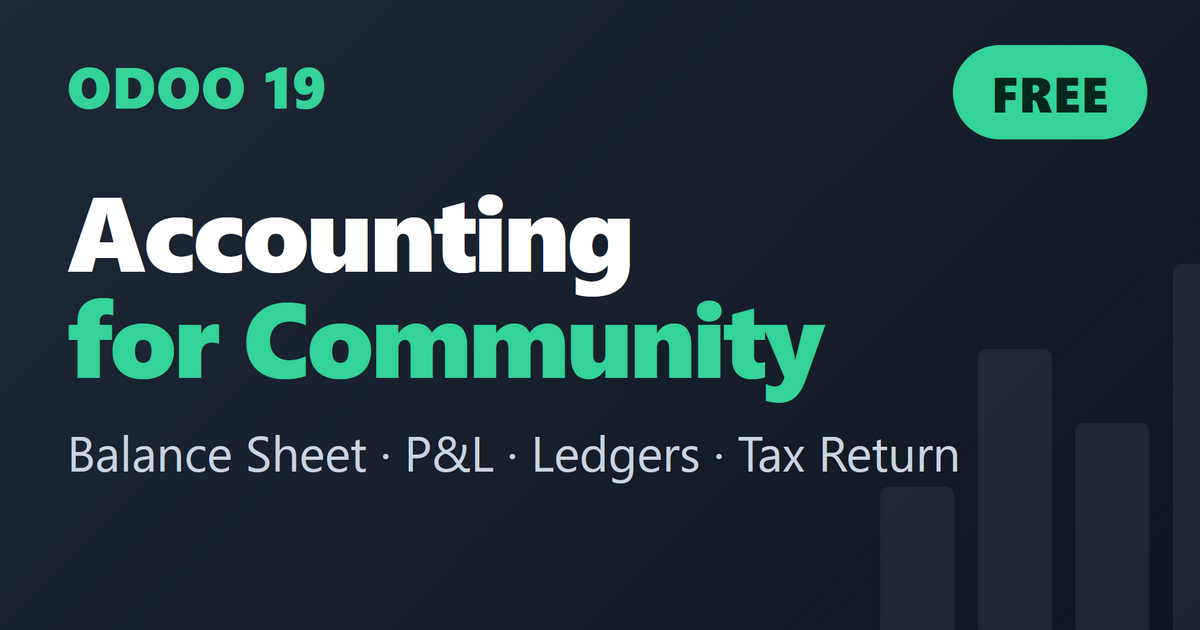
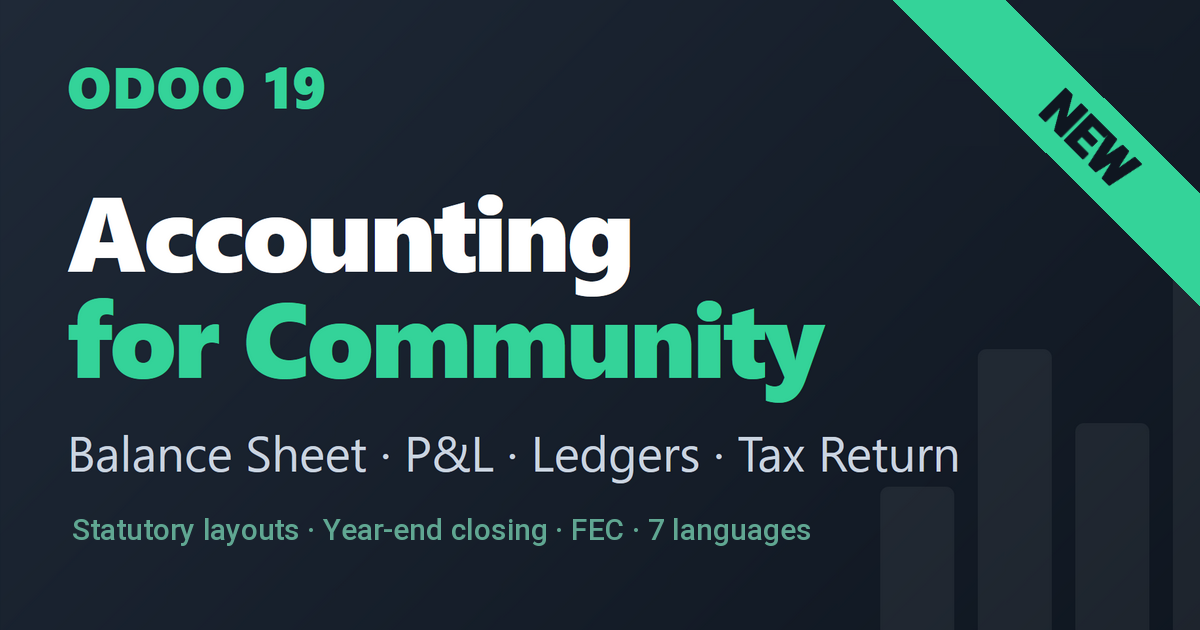
Balance sheets: read the unallocated earnings account, and honour hide_if_zero
Found while porting to 20.0 by comparing with Enterprise on the same
entries, and present here too.

Odoo allocates a result by debiting the equity_unaffected account. No
line read it, so an allocation raised the reserves without lowering
retained earnings: the French balance sheet was off by the allocated
amount. The universal one totalled correctly but filed the account under
capital instead of the result.

hide_if_zero was declared on three lines and honoured nowhere, which left
the new section showing zero on every balance sheet that never allocates.

Also authenticates the HTTP export test, which now runs since the worker
uses a free port.

Changed region(s): [[0.74, 0.0, 1.0, 0.4825], [0.0617, 0.8143, 0.6783, 0.8746]]

diff --git a/expodo_account_reports/tests/test_french_statements.py b/expodo_account_reports/tests/test_french_statements.py
@@ -518,3 +518,152 @@ class TestSoldesIntermediairesDeGestion(TransactionCase):
             v["SIG_CONSOMMATIONS"], consommations_brutes,
             "Les consommations doivent exclure les achats de marchandises, "
             "déjà portés à la marge commerciale")
+
+
+@tagged("post_install", "-at_install")
+class TestAffectationDuResultat(TransactionCase):
+    """Affectation du résultat par le compte de résultat non affecté d'Odoo.
+
+    Odoo ne passe pas d'écriture de clôture : pour affecter un résultat,
+    l'utilisateur débite le compte de type ``equity_unaffected`` (999999) et
+    crédite les réserves ou le report à nouveau. C'est la méthode standard,
+    celle que suit l'édition Enterprise.
+
+    Défaut trouvé pendant le portage en 20.0, par comparaison avec Enterprise
+    sur un jeu d'écritures identique, et présent à l'identique en 19.0.
+    """
+
+    def setUp(self):
+        super().setUp()
+        pays = (self.env.company.account_fiscal_country_id.code
+                or self.env.company.country_id.code)
+        if pays != "FR":
+            self.skipTest("Contrôles propres au plan comptable français")
+        societe = self.env.company
+        comptes = self.env["account.account"]
+
+        def compte(domaine):
+            trouve = comptes.search(
+                domaine + [("company_ids", "in", societe.id)], limit=1, order="code")
+            if not trouve:
+                self.skipTest("Plan comptable incomplet : %s" % domaine)
+            return trouve
+
+        self.client_ = compte([("code", "=like", "411%")])
+        self.vente = compte([("code", "=like", "706%")])
+        self.reserves = compte([("code", "=like", "1068%")])
+        self.non_affecte = compte([("account_type", "=", "equity_unaffected")])
+        self.journal = self.env["account.journal"].search(
+            [("type", "=", "general"), ("company_id", "=", societe.id)], limit=1)
+
+    def _ecriture(self, jour, debit, credit, montant):
+        ecriture = self.env["account.move"].create({
+            "journal_id": self.journal.id, "date": jour, "ref": "AFFECTATION",
+            "line_ids": [
+                Command.create({"name": "A", "account_id": debit.id,
+                                "debit": montant, "credit": 0.0}),
+                Command.create({"name": "A", "account_id": credit.id,
+                                "debit": 0.0, "credit": montant}),
+            ],
+        })
+        ecriture.action_post()
+
+    def _valeurs(self, xmlid, annee):
+        rapport = self.env.ref(xmlid)
+        options = rapport._expodo_get_options({"date": {
+            "mode": "range", "filter": "custom",
+            "date_from": date(annee, 1, 1), "date_to": date(annee, 12, 31)}})
+        return rapport._expodo_compute_values(options, "main")
+
+    def _scenario(self):
+        """Un bénéfice en 2031, affecté aux réserves en 2032."""
+        self._ecriture(date(2031, 6, 1), self.client_, self.vente, 1000.0)
+        self._ecriture(date(2032, 5, 31), self.non_affecte, self.reserves, 1000.0)
+
+    def test_le_bilan_francais_reste_equilibre_apres_affectation(self):
+        """Le compte non affecté doit être lu, sinon le bilan boite.
+
+        Sans ligne qui lise ``equity_unaffected``, l'affectation gonfle les
+        réserves sans rien retirer au report à nouveau : le bilan est faux du
+        montant affecté, et rien à l'écran ne le signale.
+        """
+        self._scenario()
+        avant = self._valeurs("expodo_account_reports.report_bilan_fr", 2031)
+        apres = self._valeurs("expodo_account_reports.report_bilan_fr", 2032)
+
+        # L'équilibre est le contrôle décisif : c'est lui qui tombait, de
+        # 1 000 exactement, tant qu'aucune ligne ne lisait le compte non
+        # affecté.
+        self.assertAlmostEqual(
+            apres[("BILAN_ECART", "balance")], 0.0, places=2,
+            msg="Le bilan doit rester équilibré après une affectation du résultat")
+
+        # Les variations plutôt que les montants : la base de développement
+        # porte d'autres écritures, et un contrôle en valeur absolue y mesure
+        # l'historique de la base au lieu de mesurer l'affectation.
+        def variation(code):
+            return apres[(code, "balance")] - avant[(code, "balance")]
+
+        self.assertAlmostEqual(
+            variation("BILAN_CAPITAL"), 1000.0, places=2,
+            msg="Les réserves reçoivent le résultat affecté")
+        self.assertAlmostEqual(
+            variation("BILAN_REPORT"), 0.0, places=2,
+            msg="Le report à nouveau accueille le résultat antérieur puis le "
+                "rend à l'affectation : au net il ne bouge pas")
+        self.assertAlmostEqual(
+            variation("BILAN_RESULTAT"), -1000.0, places=2,
+            msg="Le résultat de l'exercice ne porte plus le bénéfice de 2031")
+
+
+    def test_une_rubrique_sans_objet_ne_s_affiche_pas(self):
+        """`hide_if_zero` doit effacer la ligne, pas seulement la déclarer.
+
+        Le champ existe dans le coeur d'Odoo et trois lignes du module s'en
+        servaient, mais le moteur ne le lisait pas : l'affectation du résultat
+        restait affichée à zéro sur le bilan des sociétés qui n'affectent
+        jamais par ce compte, c'est-à-dire la plupart.
+        """
+        rapport = self.env.ref("expodo_account_reports.report_bilan_fr")
+        options = rapport._expodo_get_options({"date": {
+            "mode": "range", "filter": "custom",
+            "date_from": date(2031, 1, 1), "date_to": date(2031, 12, 31)}})
+        lignes = rapport._expodo_serialize_report_lines(
+            options, {"main": rapport._expodo_compute_values(options, "main")})
+        codes = [l["code"] for l in lignes]
+        self.assertNotIn(
+            "BILAN_REPORT_AFFECTE", codes,
+            "Sans aucune affectation, la rubrique n'a rien à dire et ne doit "
+            "pas occuper une ligne du bilan")
+
+        self._scenario()
+        lignes = rapport._expodo_serialize_report_lines(
+            options, {"main": rapport._expodo_compute_values(options, "main")})
+        options_2032 = rapport._expodo_get_options({"date": {
+            "mode": "range", "filter": "custom",
+            "date_from": date(2032, 1, 1), "date_to": date(2032, 12, 31)}})
+        lignes_2032 = rapport._expodo_serialize_report_lines(
+            options_2032,
+            {"main": rapport._expodo_compute_values(options_2032, "main")})
+        self.assertIn(
+            "BILAN_REPORT_AFFECTE", [l["code"] for l in lignes_2032],
+            "Dès qu'une affectation existe, la rubrique doit reparaître")
+
+    def test_le_bilan_universel_range_l_affectation_dans_le_resultat(self):
+        """``equity_unaffected`` appartient au résultat, pas au capital.
+
+        Rangé dans le capital, il fait paraître les réserves inchangées après
+        une affectation et laisse le résultat gonflé du même montant. Les
+        totaux restent justes, donc seule la lecture ligne à ligne le révèle.
+        """
+        self._scenario()
+        avant = self._valeurs("expodo_account_reports.report_balance_sheet", 2031)
+        apres = self._valeurs("expodo_account_reports.report_balance_sheet", 2032)
+        self.assertAlmostEqual(
+            apres[("BS_CAPITAL", "balance")] - avant[("BS_CAPITAL", "balance")],
+            1000.0, places=2,
+            msg="L'affectation doit se voir dans les capitaux propres")
+        self.assertAlmostEqual(
+            apres[("BS_RESULT", "balance")] - avant[("BS_RESULT", "balance")],
+            -1000.0, places=2,
+            msg="et retirer d'autant le résultat non affecté")

diff --git a/expodo_account_reports/models/account_report_ui.py b/expodo_account_reports/models/account_report_ui.py
@@ -110,6 +110,24 @@ class AccountReport(models.Model):
         """Identifiant stable d'une ligne, y compris pour les sous-groupes."""
         return "|".join(str(part) for part in parts)
 
+    def _expodo_cellules_nulles(self, cells):
+        """Toutes les valeurs d'une ligne sont-elles nulles ?
+
+        Une valeur non numérique — une date, un nom de partenaire — n'est
+        jamais nulle : seules les lignes purement chiffrées peuvent disparaître.
+        """
+        arrondi = self.env.company.currency_id.rounding
+        for cellule in cells:
+            for valeur in cellule["raw"].values():
+                if isinstance(valeur, bool) or valeur is None:
+                    continue
+                if isinstance(valeur, (int, float)):
+                    if not float_is_zero(valeur, precision_rounding=arrondi):
+                        return False
+                elif valeur != "":
+                    return False
+        return True
+
     def _expodo_serialize_report_lines(self, options, values_by_group):
         """Lignes statiques du rapport, à plat, dans l'ordre d'affichage."""
         self.ensure_one()
@@ -138,6 +156,19 @@ class AccountReport(models.Model):
                         # agrégation n'a pas d'écritures sous-jacentes (F-22).
                         "auditable": line._expodo_is_auditable(column["label"]),
                     })
+
+                # `hide_if_zero` était déclaré sur trois lignes et n'était
+                # honoré nulle part : le champ existe dans le coeur, le moteur
+                # ne le lisait pas. Une rubrique qui ne sert qu'à certaines
+                # sociétés — l'affectation du résultat, le résultat antérieur
+                # non affecté — restait donc affichée à zéro sur tous les
+                # bilans, y compris ceux qui ne la concernent pas.
+                #
+                # Une ligne masquée emporte ses filles : les afficher sous un
+                # parent absent les rattacherait visuellement à la rubrique
+                # précédente.
+                if line.hide_if_zero and self._expodo_cellules_nulles(cells):
+                    continue
 
                 serialized.append({
                     "id": self._expodo_line_id("line", line.id),

diff --git a/expodo_account_reports/tests/test_matrix.py b/expodo_account_reports/tests/test_matrix.py
@@ -368,6 +368,25 @@ class TestReportTour(HttpCase):
         HTML, et c'est précisément la forme que prend l'échec.
         """
         rapport = self.env.ref("expodo_account_reports.report_balance_sheet")
+        # La route est en `auth="user"` : sans session, elle répond 303 vers la
+        # page de connexion, donc du HTML, et le contrôle de signature échoue
+        # en accusant l'export alors que seule l'authentification manquait.
+        #
+        # Un utilisateur créé pour l'occasion plutôt que `admin` : le mot de
+        # passe de l'administrateur dépend de la base, et le test doit tourner
+        # aussi bien ici qu'en intégration continue. Il porte les droits que
+        # la route exige, ce qui vérifie du même coup que ces droits suffisent.
+        mot_de_passe = "expodo_export_http"
+        comptable = self.env["res.users"].create({
+            "name": "Comptable export",
+            "login": mot_de_passe,
+            "password": mot_de_passe,
+            "group_ids": [Command.set([
+                self.env.ref("base.group_user").id,
+                self.env.ref("account.group_account_manager").id,
+            ])],
+        })
+        self.authenticate(comptable.login, mot_de_passe)
         for extension, signature in (("pdf", b"%PDF"), ("xlsx", b"PK\x03\x04")):
             reponse = self.url_open(
                 "/expodo_account_reports/export/%s/%s?options={}"
